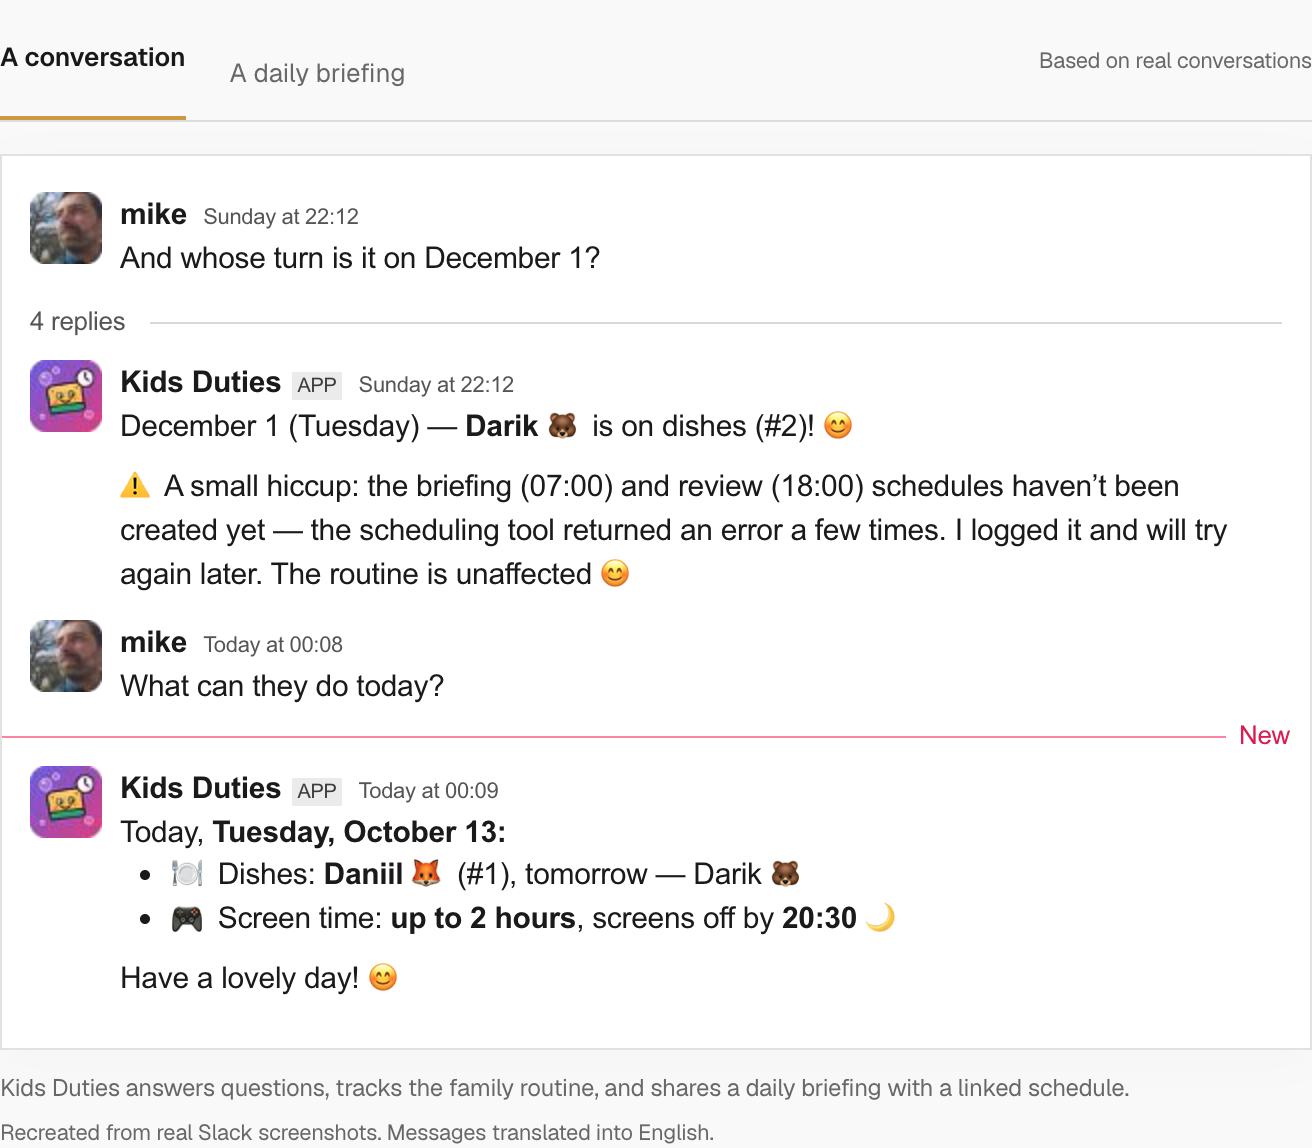
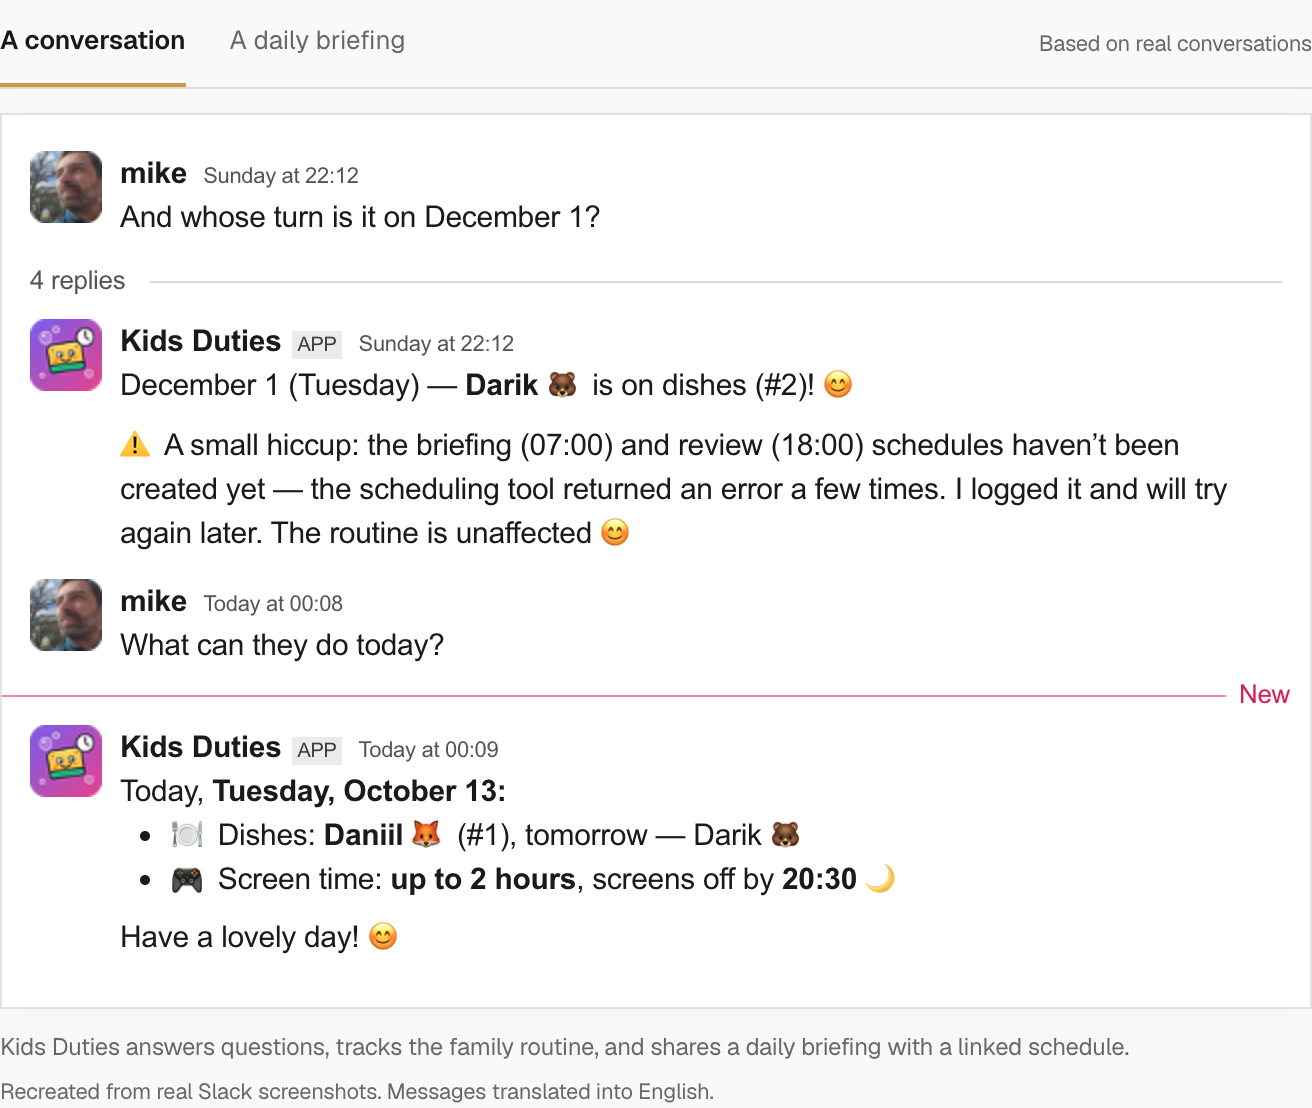
fix(docs): isolate Slack landing component styles

Changed region(s): [[0.0, 0.0307, 1.0, 0.8592], [0.0, 0.9206, 0.8438, 1.0], [0.7812, 0.0307, 1.0, 0.0614]]

diff --git a/apps/docs/src/styles/slack-landing.css b/apps/docs/src/styles/slack-landing.css
@@ -58,21 +58,29 @@
   color: hsl(var(--foreground)) !important;
   border-color: var(--landing-line);
 }
-.slack-demo {
+.slack-landing .slack-demo {
+  display: block;
   margin: 24px 0 36px;
 }
 .slack-tabs {
   display: flex;
+  align-items: stretch;
   gap: 22px;
   border-bottom: 1px solid var(--landing-line);
   margin-bottom: 12px;
 }
 .slack-tab {
+  display: inline-flex;
+  align-items: center;
+  justify-content: center;
+  min-height: 44px;
+  margin: 0;
   border: 0;
   border-bottom: 2px solid transparent;
   background: none;
   font: inherit;
   font-size: 13px;
+  line-height: 1.4;
   color: var(--landing-muted);
   padding: 10px 0;
   cursor: pointer;
@@ -179,6 +187,7 @@
   font-size: 15px;
   line-height: 1.46;
   box-shadow: 0 4px 24px #0a163605;
+  margin: 0;
 }
 .slack-landing .real-slack * {
   box-sizing: border-box;
@@ -447,15 +456,7 @@
   border: 0;
   margin-top: 18px;
 }
-.slack-landing .slack-demo {
-  display: block;
-}
 .slack-landing .slack-tab:focus-visible {
   outline: 2px solid #d4a43a;
   outline-offset: 4px;
 }
-.slack-landing .slack-steps article {
-  margin: 0;
-}
-
-.slack-landing .slack-features > article { margin: 0; }

diff --git a/docs/changelog/2026-10-14-slack-integration-overview/index.md b/docs/changelog/2026-10-14-slack-integration-overview/index.md
@@ -20,4 +20,8 @@ conversation examples, or follow **Publish an existing Agent** to the installati
 guide. The detailed Slack reference remains available for scopes, session routing,
 actions and troubleshooting. Slack navigation now uses the recognizable Slack mark.
 
+## Update 2026-10-14
+
+Example tabs now align consistently, with layout and spacing isolated from article typography.
+
 ![English Kids Duties conversation example and daily briefing tab on the Slack integration overview](./slack-examples@2x.png)
